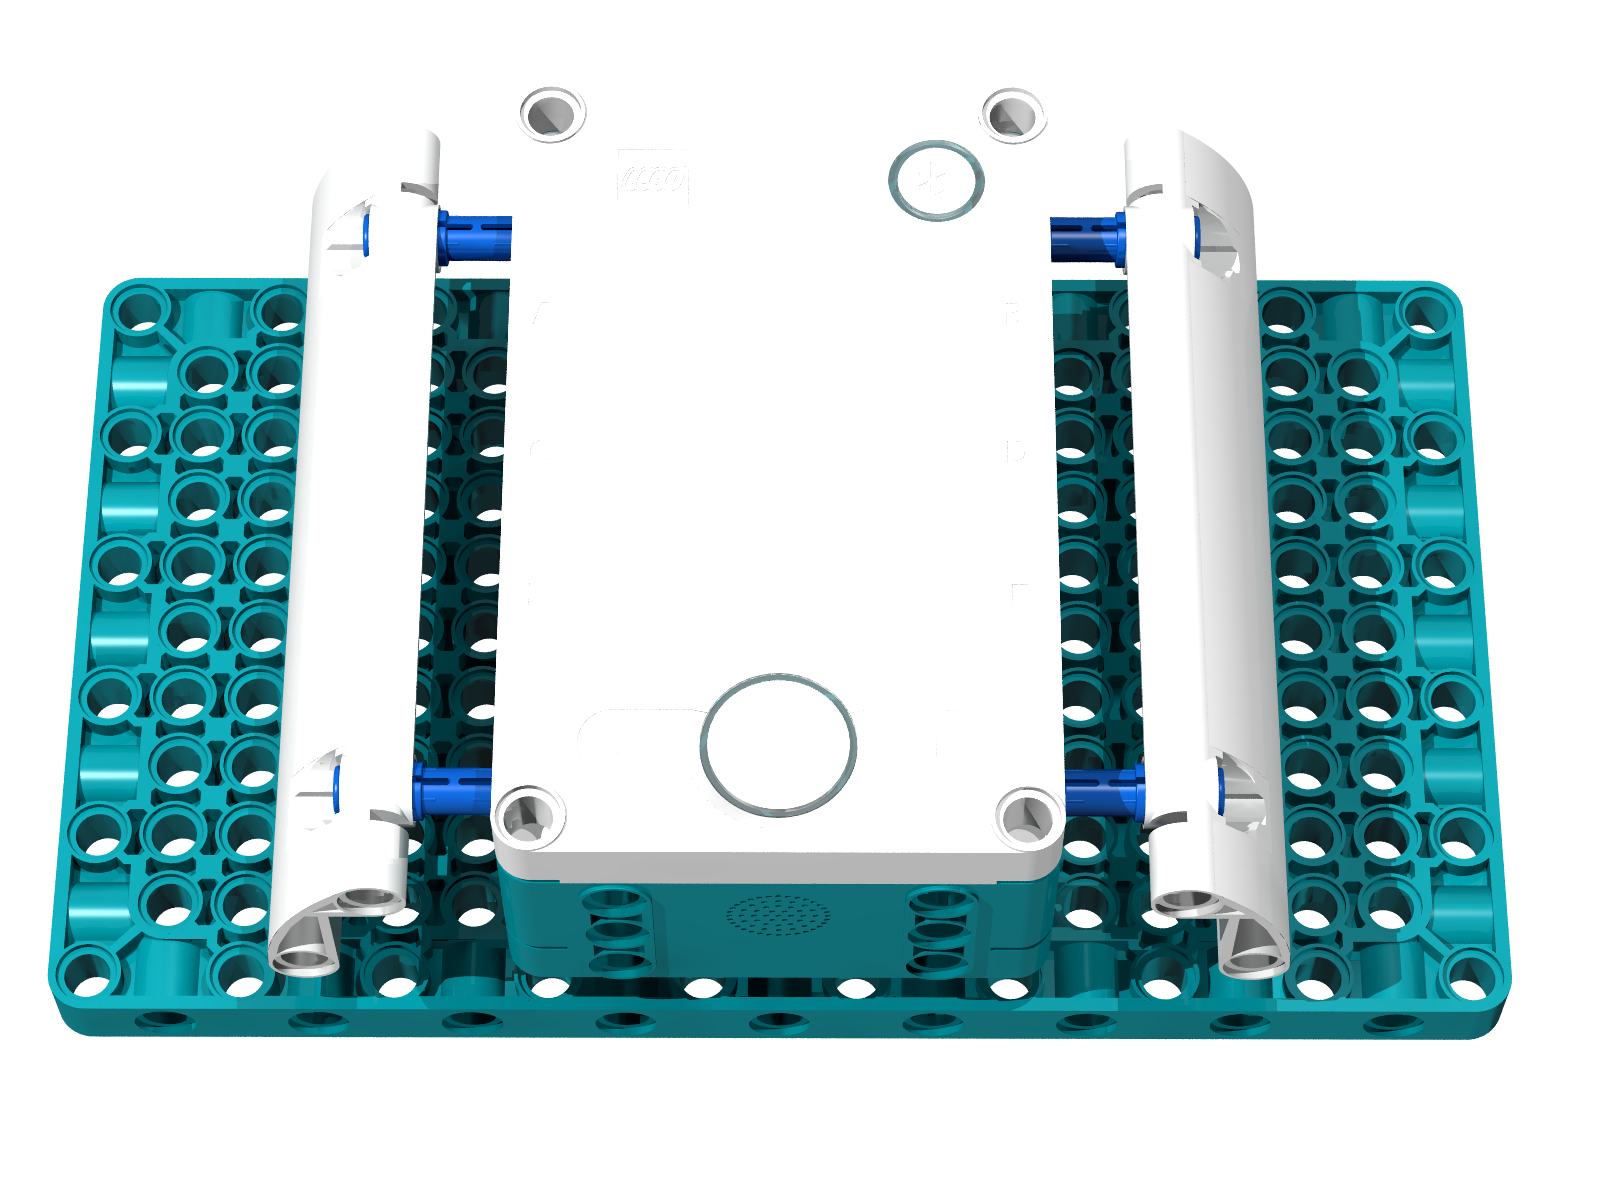
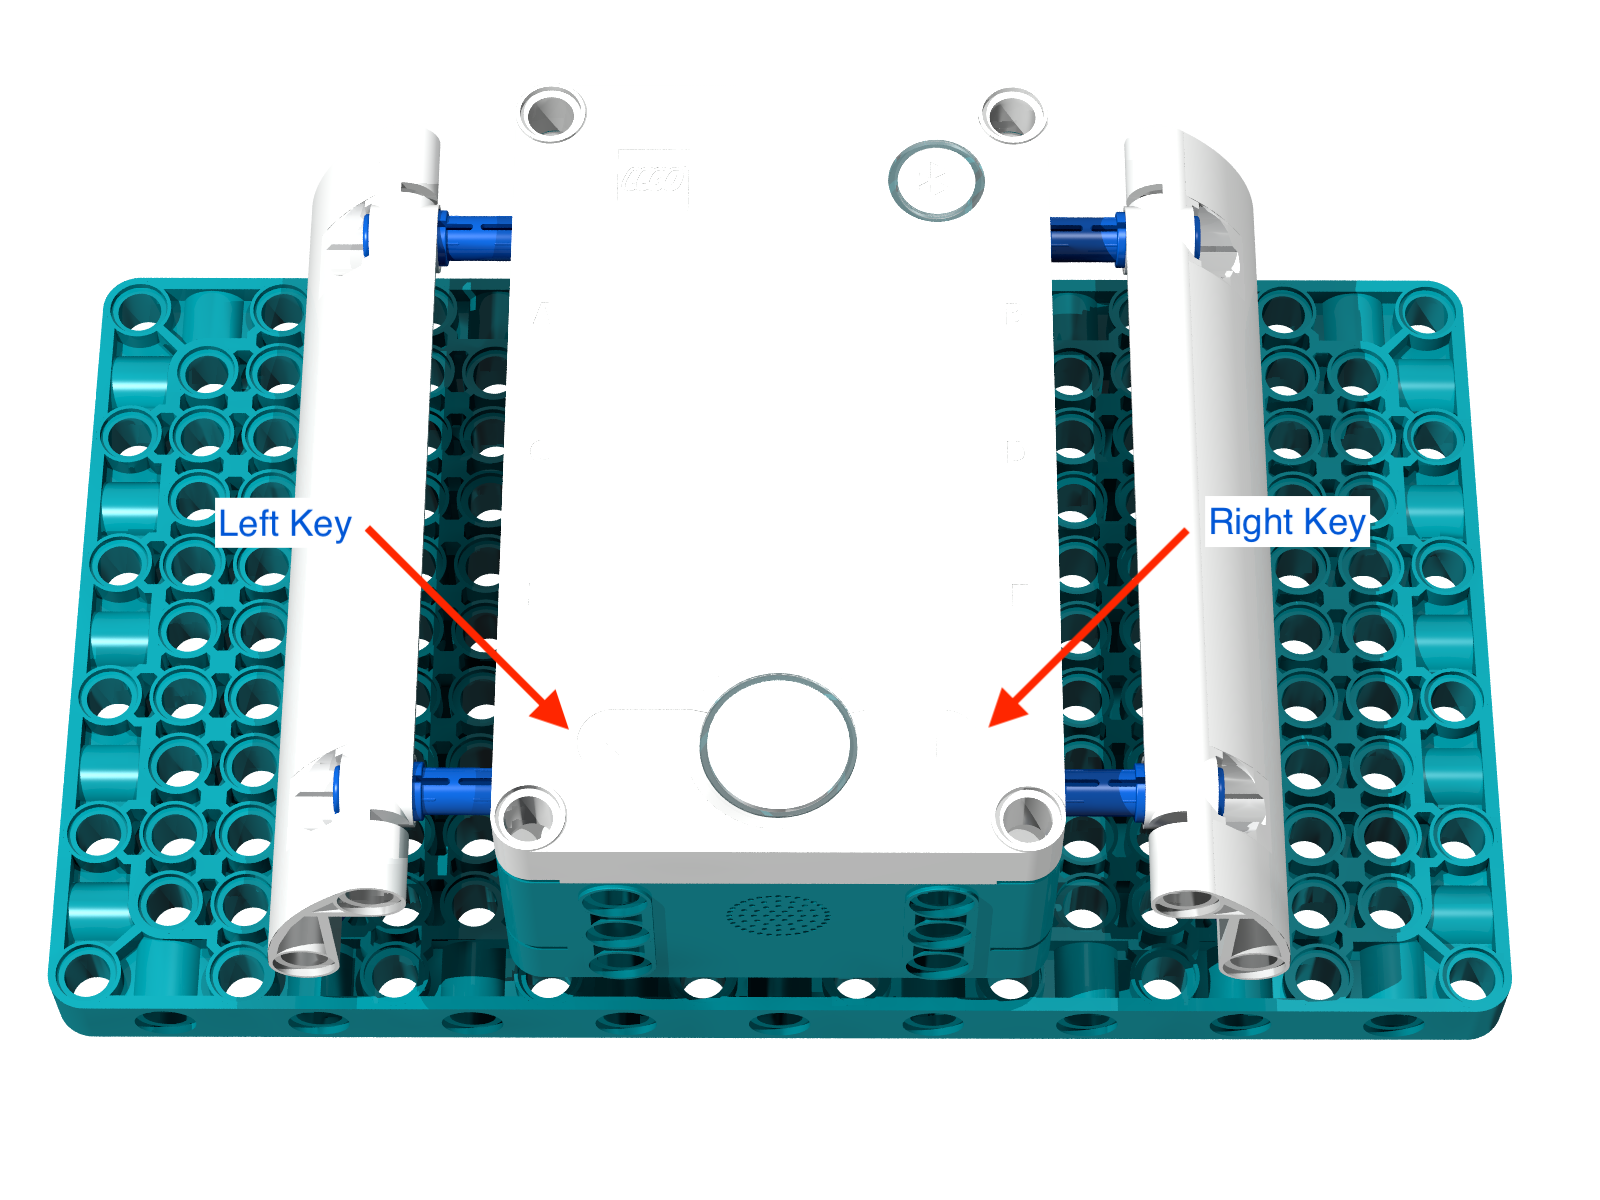
- Added Emotions - Added a true readme - Added game instructions

diff --git a/Emotions/emotions.py b/Emotions/emotions.py
@@ -1,0 +1,114 @@
+#!/usr/bin/env python
+
+"""Emotions for 51515 GamePad
+
+This script is a really simple game similar to simon says which pretends to
+predict a person's emotion by randomly picking it from a list of pre-encoded 
+emojis on the 51515 hub.
+
+Playing:
+Hold down the left key on the GamePad. Once released the final pick is made.
+
+    Changelog:
+    28-dec-2020 (me) created
+"""
+__version__ = '1.0'
+
+    # Import the 51515 classes
+from mindstorms import MSHub
+from mindstorms.control import wait_for_seconds
+    # Import micropython classes
+import random
+
+    # Existing emojis images on the hub
+emotions = [
+    'ANGRY', 'ASLEEP', 'HAPPY', 'HEART', 'MEH', 'SAD', 'SILLY'
+]
+
+colorEmotions = [
+    'red', 'white', 'yellow', 'pink', 'black', 'white', 'azure'
+]
+
+
+
+def ShowRandomImage(imageList, duration=0.1):
+    '''
+    Shows a random image from imageList on the hub for 0.2s and returns
+    the position of that element.
+
+            Parameters:
+                    imageList ([str]): a list of existing images on hub
+                    duration (float): length to show the image
+
+            Returns:
+                    pick (int): position in imageList
+    '''
+    pick = random.randrange(len(imageList))
+    hub.light_matrix.show_image(imageList[pick])
+    wait_for_seconds(duration)
+    return pick
+
+def ShowSpecificColor(pick, colorList):
+    '''
+    Shows a specific color to match the emotions from the image list.
+
+            Parameters:
+                    pick (int): position in imageList
+                    colorList ([str]): a list of matching colors
+
+            Returns:
+                    nothing
+    '''
+    hub.status_light.on(colorList[pick])
+
+def ShowSpecificImage(pick, imageList):
+    '''
+    Shows a specific image based on a previous pick.
+
+            Parameters:
+                    pick (int): position in imageList
+                    imageList ([str]): a list of existing images on hub
+
+            Returns:
+                    nothing
+    '''
+    hub.light_matrix.show_image(imageList[pick])
+
+    # Initilized the hub
+hub = MSHub()
+
+    # "Game engine" ;)
+gameStart = 0
+while True:
+        # Start the game
+    if hub.left_button.is_pressed():
+        if gameStart == 0: hub.speaker.start_beep()
+        pick = ShowRandomImage(emotions)
+        ShowSpecificColor(pick, colorEmotions)
+        gameStart = 1
+
+        # End the game and show final pick
+    elif (not hub.left_button.is_pressed() and gameStart == 1):
+            # Slow down the picker
+        for i in range(10):
+            hub.speaker.start_beep()
+            pick = ShowRandomImage(emotions, 0.08*i)
+            ShowSpecificColor(pick, colorEmotions)
+            hub.status_light.off()
+            hub.speaker.stop()
+            wait_for_seconds(0.02*i)
+
+            # Show the final pick
+        for i in range (7):
+            ShowSpecificColor(pick, colorEmotions)
+            ShowSpecificImage(pick, emotions)
+
+                # "Final Music"
+            hub.speaker.beep(60, 0.2)
+            hub.speaker.beep(67, 0.2)
+            hub.speaker.beep(60, 0.2)
+
+            hub.light_matrix.off()
+            hub.status_light.off()
+            wait_for_seconds(0.5)
+        gameStart = 0

diff --git a/README.md b/README.md
@@ -1,2 +1,28 @@
-# LEGO Mindstorms5 Emotions
-Simon say's like game randomly showing emotions
+#LEGO Mindstorms 51515 GamePad
+
+##About
+
+The 51515 GamePad is a project which tries to bring some game ideas to the
+51515 (and potentially Spike Prime) hub.
+
+##Building the GamePad
+
+I uploaded really simple building instructions of the GamePad. These were made
+using Studio 2 from BrickLink. They are currently not ideal because of a
+rendering bug in the software but I am sure everyone can assemble it.
+
+See the ``LEGO Mindstorms5 Gamepad-Instructions.pdf`` for the instructions
+and the final GamePad can be found here:``LEGO Mindstorms5 Gamepad.png``.
+
+##List of Games
+
+I hope this list will grow over time. All my game ideas are listed here
+
+### Emotions
+Emotions is a game similar to simon says which pretends to predict a person's
+emotion by randomly picking it from a list of pre-encoded emojis on the 51515
+hub.
+
+To play hold down the left key on the GamePad. Once released the final pick is
+made.
+
